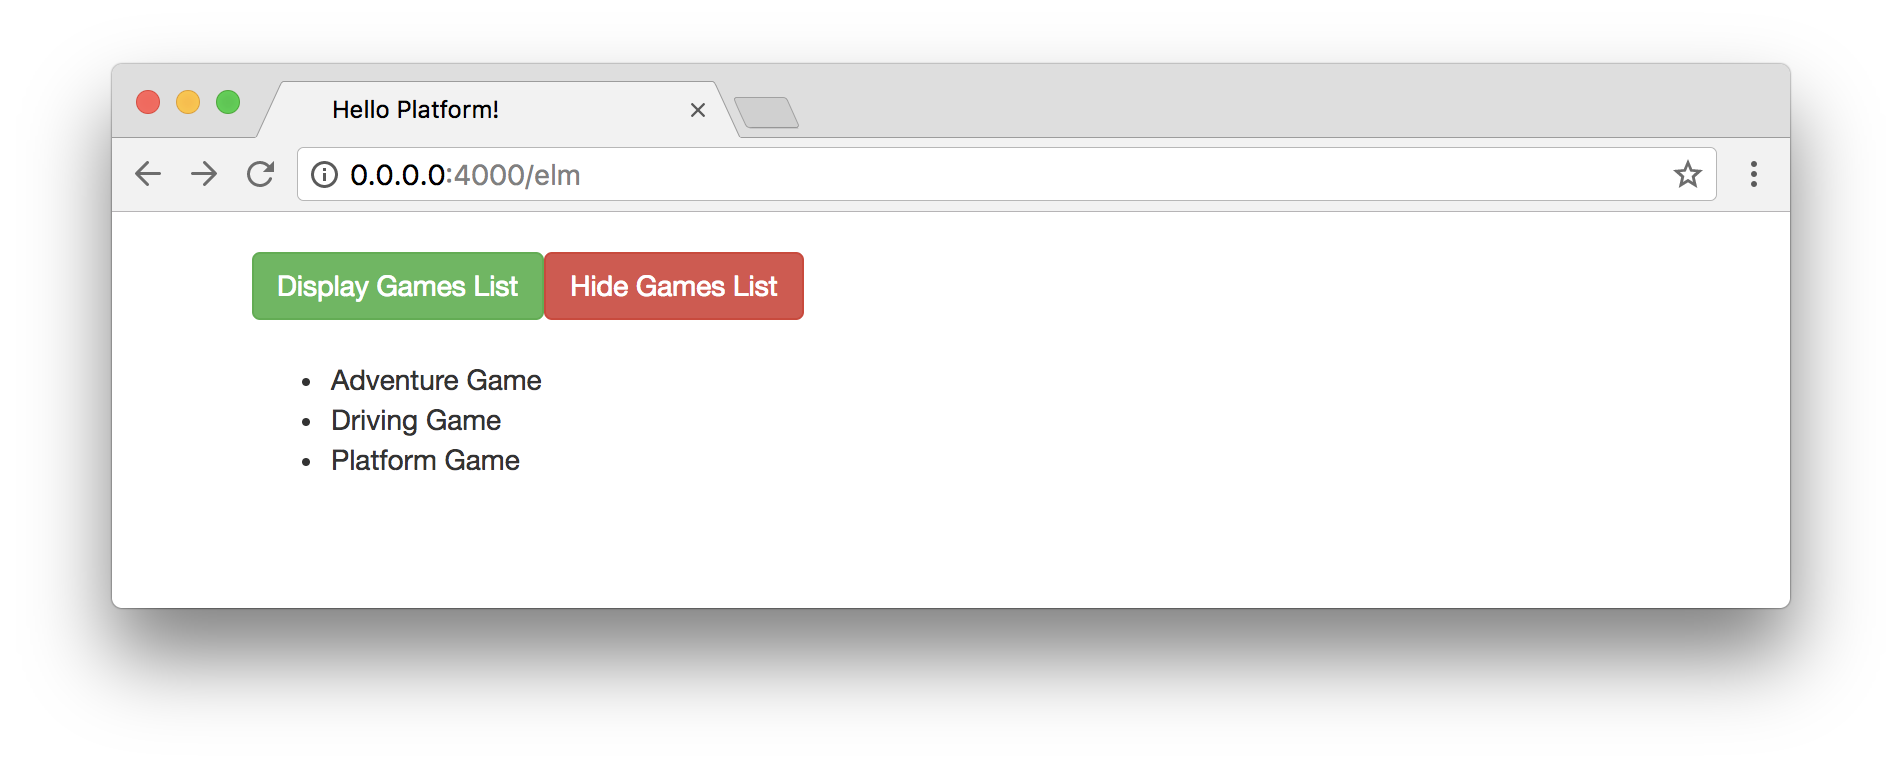
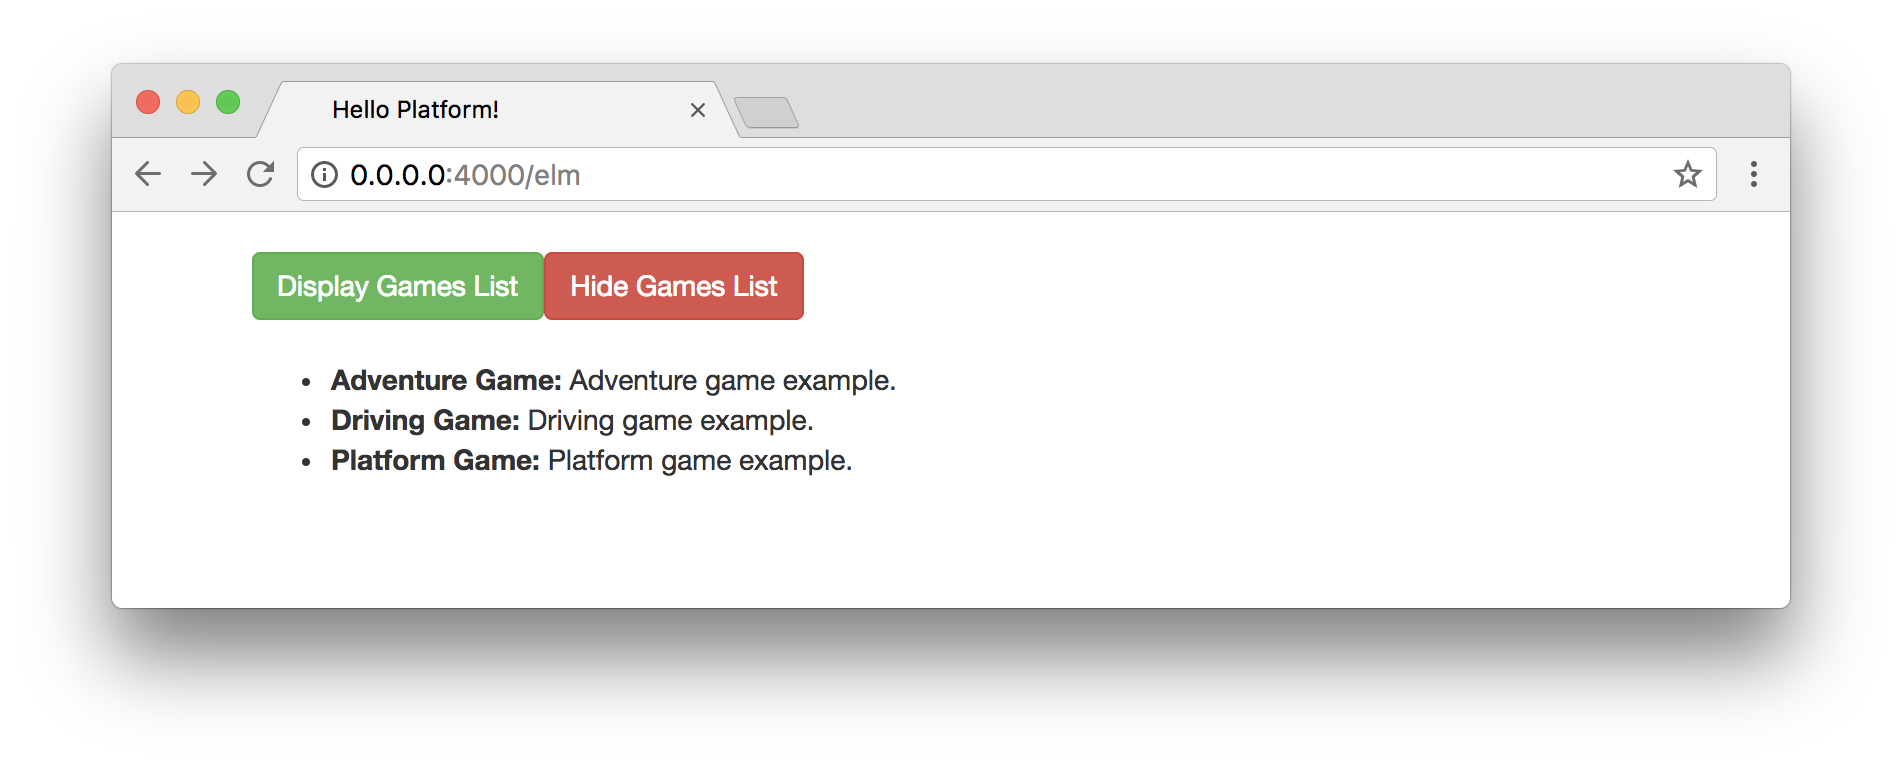
Add missing description in Elm Architecture chapter and replace image

Changed region(s): [[0.1551, 0.4688, 0.4653, 0.625]]

diff --git a/manuscript/elm_architecture.md b/manuscript/elm_architecture.md
@@ -466,15 +466,17 @@ gamesList listOfGames =
 
 gamesListItem : Game -> Html msg
 gamesListItem game =
-    li [] [ text game.gameTitle ]
+    li []
+        [ strong [] [ text (game.gameTitle ++ ": ") ]
+        , span [] [ text game.gameDescription ]
+        ]
 ```
 
 We start by passing our full `model` to the `gamesIndex`, which passes the
 `gamesList` from the model along to the `gamesList` function. Then we pass
-those individual games to the `gamesListItem` function. The approach remains
-the same as what we originally did in the last chapter, and now we're just
-using real data from our model and we can see the changes reflected in the
-type annotations.
+those individual games to the `gamesListItem` function. For each `game`, we
+want to display both the `gameTitle` (in a `strong` element along with the `++`
+string concatenation operator) and the `gameDescription` in a `span` element.
 
 ![Displaying the List of Games](images/elm_architecture/rendering_the_games_list.png)
 
@@ -510,7 +512,7 @@ view model =
 The last step to getting our buttons working is to check for the value of the
 `displayGamesList` boolean before we render our list of games. When that field
 is set to `True`, then we'll pass the `model` to the `gamesIndex`, otherwise
-we'll just render an empty `div` element. Here's the full view section for our
+we'll just render an empty `div` element. Here's the full View section for our
 application:
 
 ```elm
@@ -541,7 +543,10 @@ gamesList listOfGames =
 
 gamesListItem : Game -> Html msg
 gamesListItem game =
-    li [] [ text game.gameTitle ]
+    li []
+        [ strong [] [ text (game.gameTitle ++ ": ") ]
+        , span [] [ text game.gameDescription ]
+        ]
 ```
 
 We should be able to click the buttons and see the list of games displayed or
